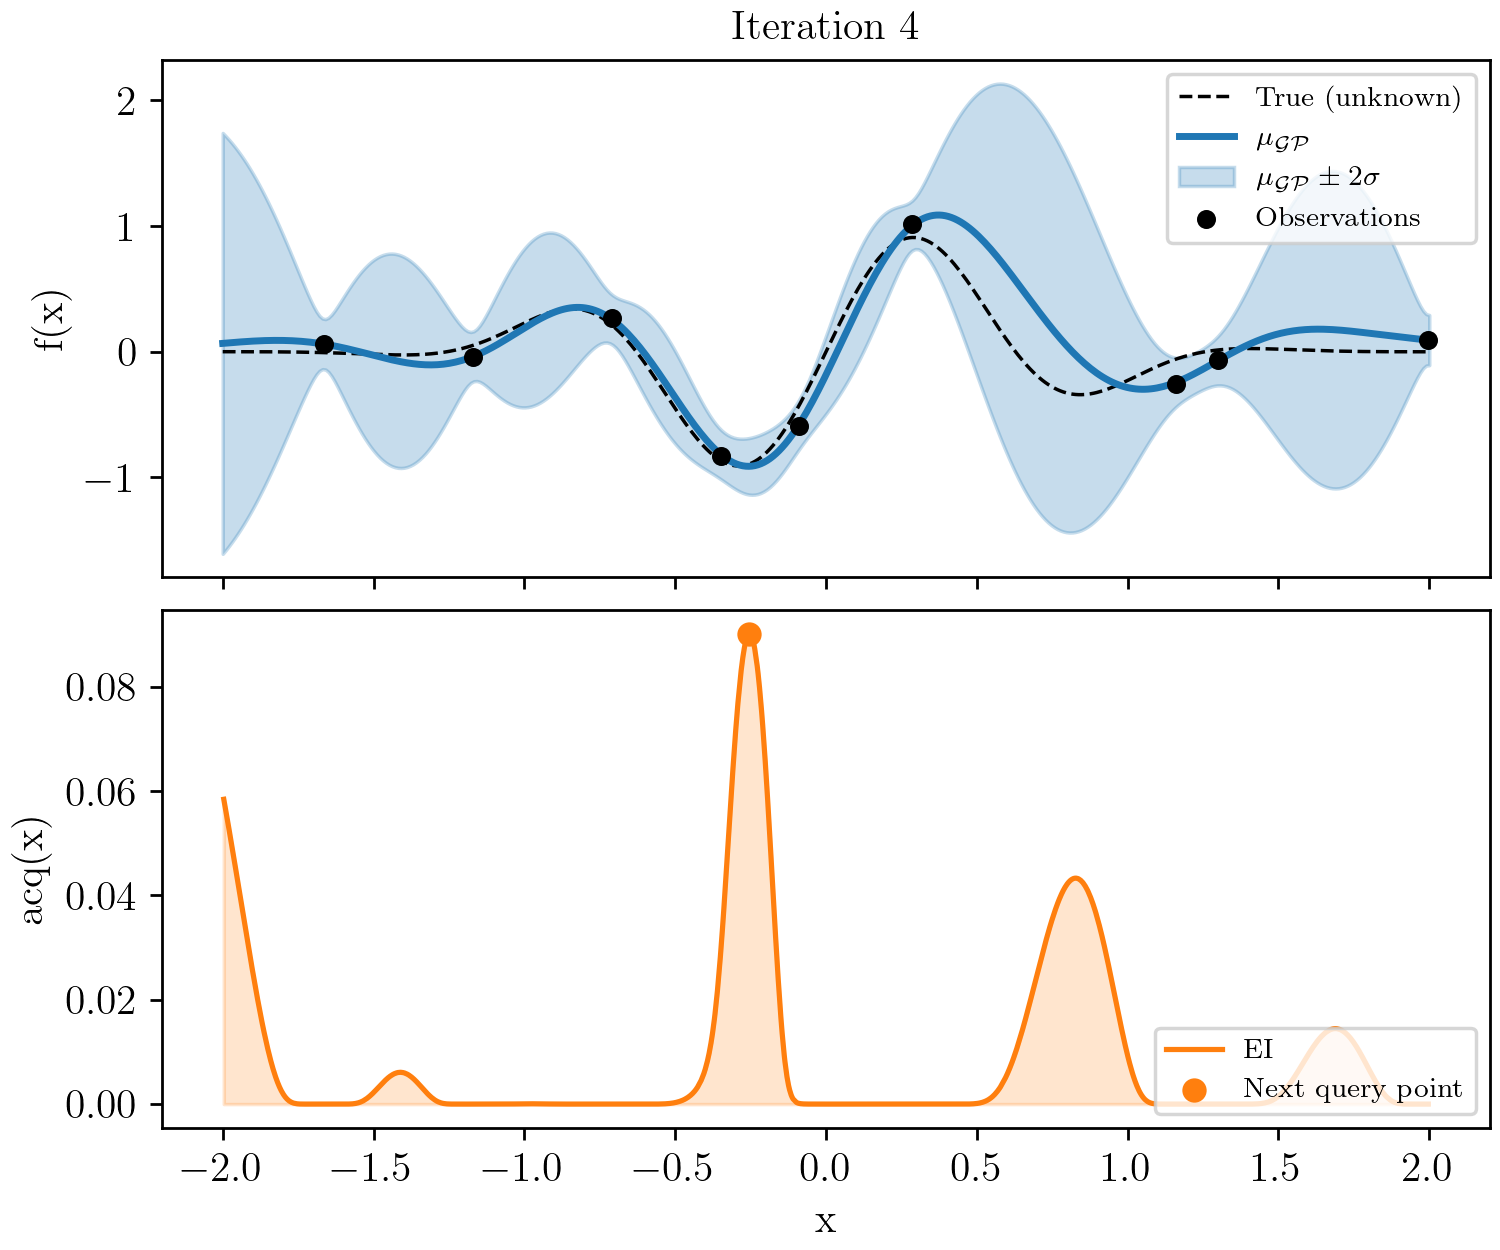
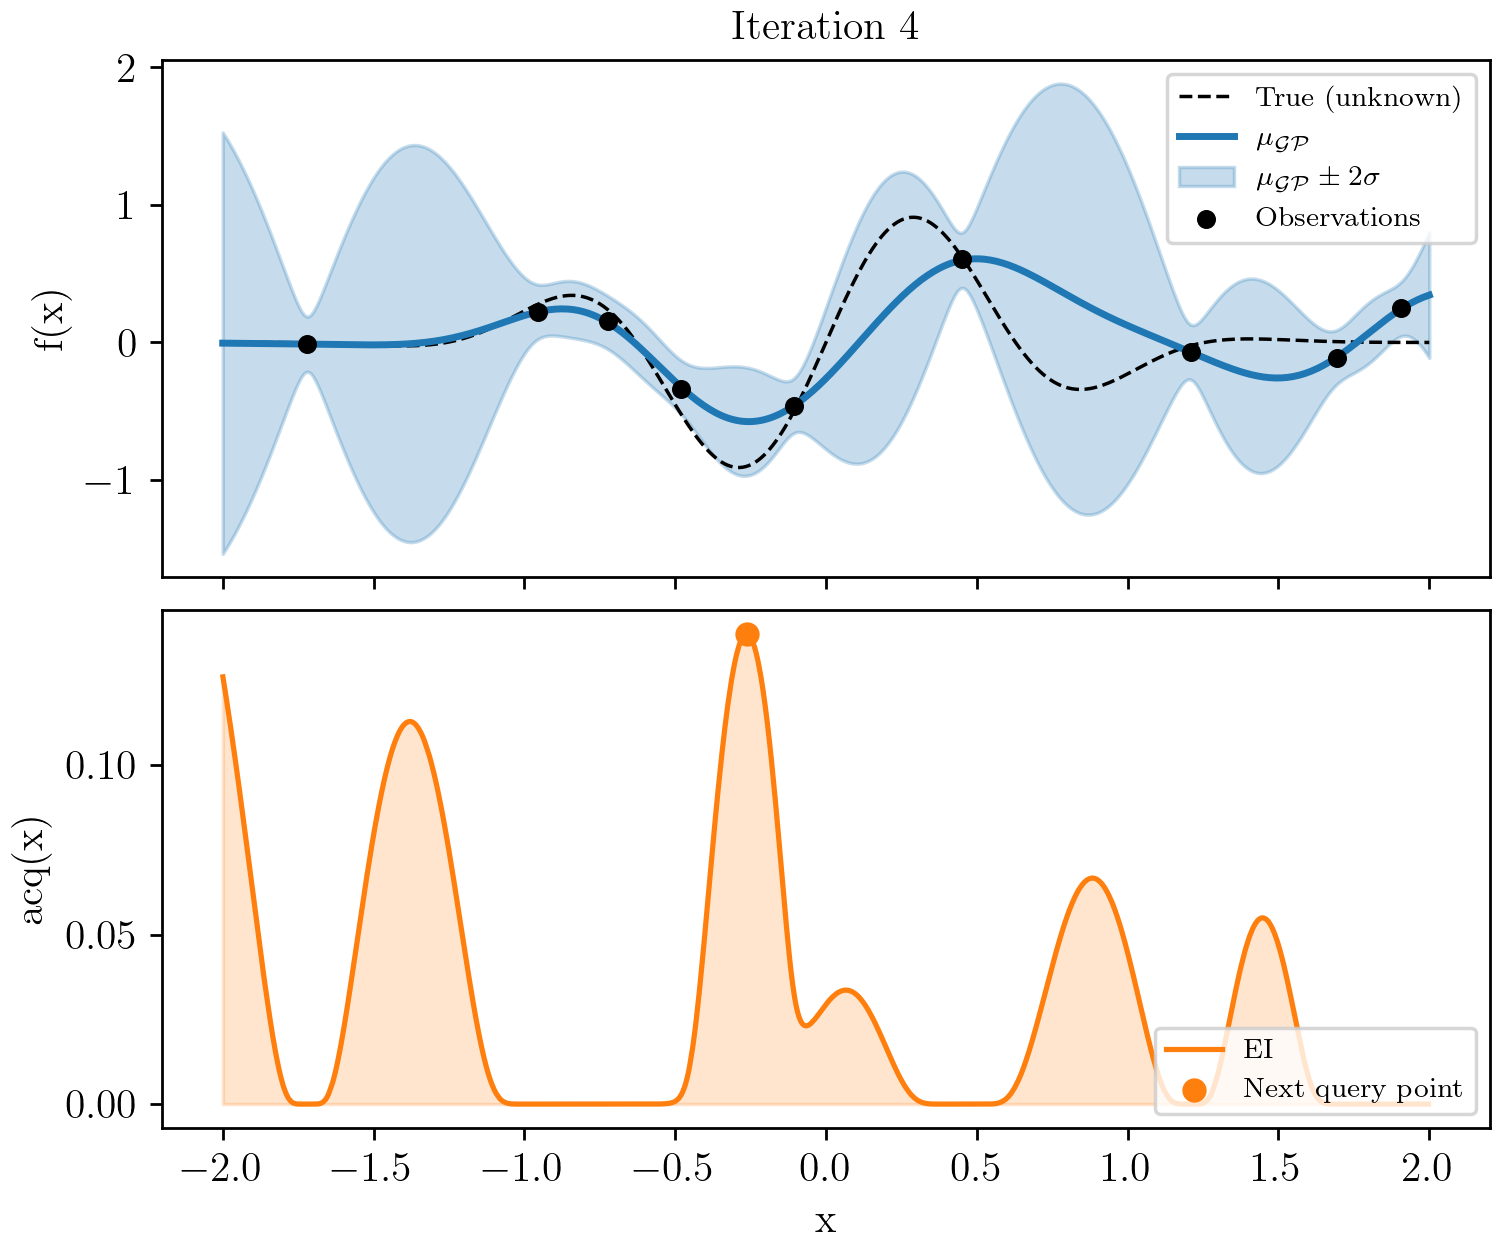
commit

diff --git a/BO_ML4F.py b/BO_ML4F.py
@@ -17,6 +17,8 @@ from scipy.stats.qmc import LatinHypercube
 from scipy.stats import norm
 import matplotlib.pyplot as plt
 import os
+import logging
+
 # Import the functions of the home-made BO
 from BO_func_YL import rbf_kernel_
 
@@ -152,11 +154,12 @@ class AcqOptimizationResult:
     
 # Give information about possible plot and saving
 @dataclass
-class PlotConfig:
+class SaveConfig:
     plt_state_enabled: bool = False              # master switch
-    state_save_path: Optional[str] = None    # directory to save plots
+    save_path: Optional[str] = None    # directory to save plots
     plot_every: int = 1                # plot every k iterations
-    
+    log_enabled: bool = True
+    log_filename: str = "run.log"
 
 # ----------------------------
 # Helper utilities (skeleton)
@@ -661,7 +664,7 @@ def plt_state(
     f: Callable[[Array], Array],
     bounds: Bounds,
     it: int,
-    plt_cfg: PlotConfig,
+    save_cfg: SaveConfig,
     acq_cfg: AcqConfig, 
     n_plot: int = 400,
 ):
@@ -751,15 +754,39 @@ def plt_state(
     axs[1].set_ylabel("acq(x)")
     axs[1].set_xlabel("x")
 
-    if plt_cfg.state_save_path:
-        if not os.path.exists(plt_cfg.state_save_path):
-            os.makedirs(plt_cfg.state_save_path)
-        figname = os.path.join(plt_cfg.state_save_path, f"it_{it:03d}.png")
+    if save_cfg.save_path:
+        if not os.path.exists(save_cfg.save_path):
+            os.makedirs(save_cfg.save_path)
+        figname = os.path.join(save_cfg.save_path, f"it_{it:03d}.png")
         plt.savefig(figname, dpi=250)
     plt.show()
 
 
-    
+def setup_logger(log_path: str, filename: str = "run.log") -> logging.Logger:
+    os.makedirs(log_path, exist_ok=True)
+
+    logger = logging.getLogger("BO")
+    logger.setLevel(logging.INFO)
+    logger.propagate = False
+
+    if logger.hasHandlers():
+        logger.handlers.clear()
+
+    fh = logging.FileHandler(
+        os.path.join(log_path, filename),
+        mode="w"
+    )
+
+    formatter = logging.Formatter(
+        "%(asctime)s | %(levelname)s | %(message)s",
+        datefmt="%Y-%m-%d %H:%M:%S"
+    )
+
+    fh.setFormatter(formatter)
+    logger.addHandler(fh)
+
+    return logger
+
 # ----------------------------
 # Main BO function (skeleton)
 # ----------------------------
@@ -770,7 +797,7 @@ def bayesian_optimization(
     gp_cfg: GPConfig,
     acq_cfg: AcqConfig,
     optim_cfg: OptimConfig,
-    plt_cfg: PlotConfig,  
+    save_cfg: SaveConfig,  
     callbacks: Optional[List[Callable[[BOState], None]]] = None,
     exporter: Optional[Any] = None,
     X_init: Optional[Array] = None,  # initial points (optional)
@@ -783,6 +810,23 @@ def bayesian_optimization(
     """
     rng = _rng(bo_cfg.random_state)
     callbacks = callbacks or []
+
+    logger = None
+    if save_cfg.log_enabled and save_cfg.save_path:
+        logger = setup_logger(
+            save_cfg.save_path,
+            save_cfg.log_filename
+        )
+    
+        logger.info("Starting Bayesian Optimization")
+        logger.info(f"Bounds: {bounds}")
+        logger.info(f"BOConfig: {bo_cfg}")
+        logger.info(f"GPConfig: {gp_cfg}")
+        logger.info(f"AcqConfig: {acq_cfg}")
+        logger.info(f"OptimConfig: {optim_cfg}")
+        logger.info(f"Random seed: {bo_cfg.random_state}")
+
+
 
     # ---- 1) initial points (either provided by user or sampled)
     X, y = init_dataset(
@@ -824,7 +868,7 @@ def bayesian_optimization(
         y_next = float(np.asarray(f(x_next)).reshape(-1)[0])
         
         # Plot the current state if required
-        if plt_cfg.plt_state_enabled:
+        if save_cfg.plt_state_enabled:
         
             plt_state(
                 gp=gp,
@@ -832,7 +876,7 @@ def bayesian_optimization(
                 f=f,
                 bounds=bounds,
                 it=it,
-                plt_cfg=plt_cfg, 
+                save_cfg=save_cfg, 
                 acq_cfg=acq_cfg
             )        
         
@@ -877,6 +921,17 @@ def bayesian_optimization(
         if exporter is not None and bo_cfg.export_every is not None:
             if (it + 1) % bo_cfg.export_every == 0:
                 export_state(state, exporter)
+
+        if save_cfg.log_enabled and save_cfg.save_path:
+            logger.info(
+                f"it={it:03d} | "
+                f"x_next={x_next} | "
+                f"y_next={y_next:.6e} | "
+                f"best_y={y_best:.6e} | "
+                f"l_c={gp.l_c:.3e} | "
+                f"sigma_f={gp.sigma_f:.3e} | "
+                f"sigma_y={gp.sigma_y:.3e}"
+            )
 
     # ---- 4) final best
     best_idx = int(np.argmin(y))

diff --git a/3D_Test_CASE.py b/3D_Test_CASE.py
@@ -1,7 +1,113 @@
 # -*- coding: utf-8 -*-
 """
-Created on Wed Jan 28 13:28:17 2026
+Created on Wed Jan 28 13:28:02 2026
 
 @author: mendez, lecomte
 """
 
+#%% Initialization
+
+import numpy as np
+import matplotlib.pyplot as plt
+
+import BO_ML4F as bo
+
+#Customization of the plot 
+plt.rc('text', usetex=True)      
+plt.rc('font', family='serif')
+plt.rc('xtick',labelsize=12)
+plt.rc('ytick',labelsize=12)
+plt.rc('axes',labelsize=12)
+
+
+#%% Define a 3D noisy function
+
+def func(x, noise_level=0.1):
+    x = np.asarray(x)
+
+    noise = np.random.randn() * noise_level
+
+    return (
+        np.sin(3 * x[0])
+        + 0.5 * np.cos(5 * x[1])
+        + 0.2 * x[2]**2
+        + noise
+    )
+
+# def func(x, noise_level=0.1):
+#     x = np.asarray(x)
+#     noise = np.random.randn() * noise_level
+#     return np.sin(5 * x) * (1 - np.tanh(x ** 2)) + noise
+          
+
+
+#%% Generate and visualize a random set of initial point
+
+n_plt = 500 # Number points of the plot 
+LL = 2 # Size of the domain
+bounds = [(-LL, LL), (-LL, LL), (-LL, LL)]
+
+
+
+# Extract the BOConfig container from the lib
+bo_cfg = bo.BOConfig(
+    n_init=n_plt, 
+    random_state=1234
+    )
+rng = bo._rng(bo_cfg.random_state)
+
+
+X, y = bo.init_dataset(
+    f=func,
+    bounds=bounds,
+    bo_cfg=bo_cfg,
+    rng=rng
+)
+    
+    
+# --- Plot the points
+fig = plt.figure(figsize=(6, 4), constrained_layout=True)
+ax = fig.add_subplot(111, projection='3d')
+
+sc = ax.scatter(
+    X[:, 0],
+    X[:, 1],
+    X[:, 2],
+    c=y,                 # color by output y
+    cmap='viridis',      
+    s=30,
+    alpha=0.8
+)
+
+ax.set_xlabel(r"$x_0$")
+ax.set_ylabel(r"$x_1$")
+ax.set_zlabel(r"$x_2$")
+ax.set_title("3D input space colored by output $y$")
+# Colorbar
+cbar = plt.colorbar(sc, ax=ax, shrink=0.75, pad=0.1)
+cbar.set_label(r"$y$")
+plt.show()
+
+
+
+#%% Run Bayesian Optimization
+res = bo.bayesian_optimization(
+    f=func,
+    bounds=bounds,
+    bo_cfg=bo.BOConfig(
+        n_init=10,
+        n_iter=30,
+        random_state=1234
+    ),
+    gp_cfg=bo.GPConfig(),
+    acq_cfg=bo.AcqConfig(kind="EI"),
+    optim_cfg=bo.OptimConfig(method="random"),
+    save_cfg=bo.SaveConfig(
+        plt_state_enabled=False,  # REQUIRED for d > 1
+        save_path="./out_3d"
+    ),
+)
+
+#%% Inspect results
+print("Best x found:", res.best_x)
+print("Best y found:", res.best_y)

diff --git a/1D_Test_CASE.py b/1D_Test_CASE.py
@@ -21,6 +21,7 @@ plt.rc('axes',labelsize=12)
 
 
 #%% Define the noisy function to fit
+np.random.seed(237)
 
 def func(x, noise_level=0.1):
     noise = np.random.randn() * noise_level
@@ -51,12 +52,12 @@ bounds = [(-LL, LL)] # Define the bounds of the function
 res = bo.bayesian_optimization(
     f=func,
     bounds=bounds,
-    bo_cfg=bo.BOConfig(random_state=237),
+    bo_cfg=bo.BOConfig(random_state=1234),
     gp_cfg=bo.GPConfig(),
     acq_cfg=bo.AcqConfig(),
     optim_cfg=bo.OptimConfig(),
-    plt_cfg=bo.PlotConfig(plt_state_enabled=True,
-                          state_save_path="./GIFs"),  
+    save_cfg=bo.SaveConfig(plt_state_enabled=True,
+                          save_path="./out"),  
 )
 
     
